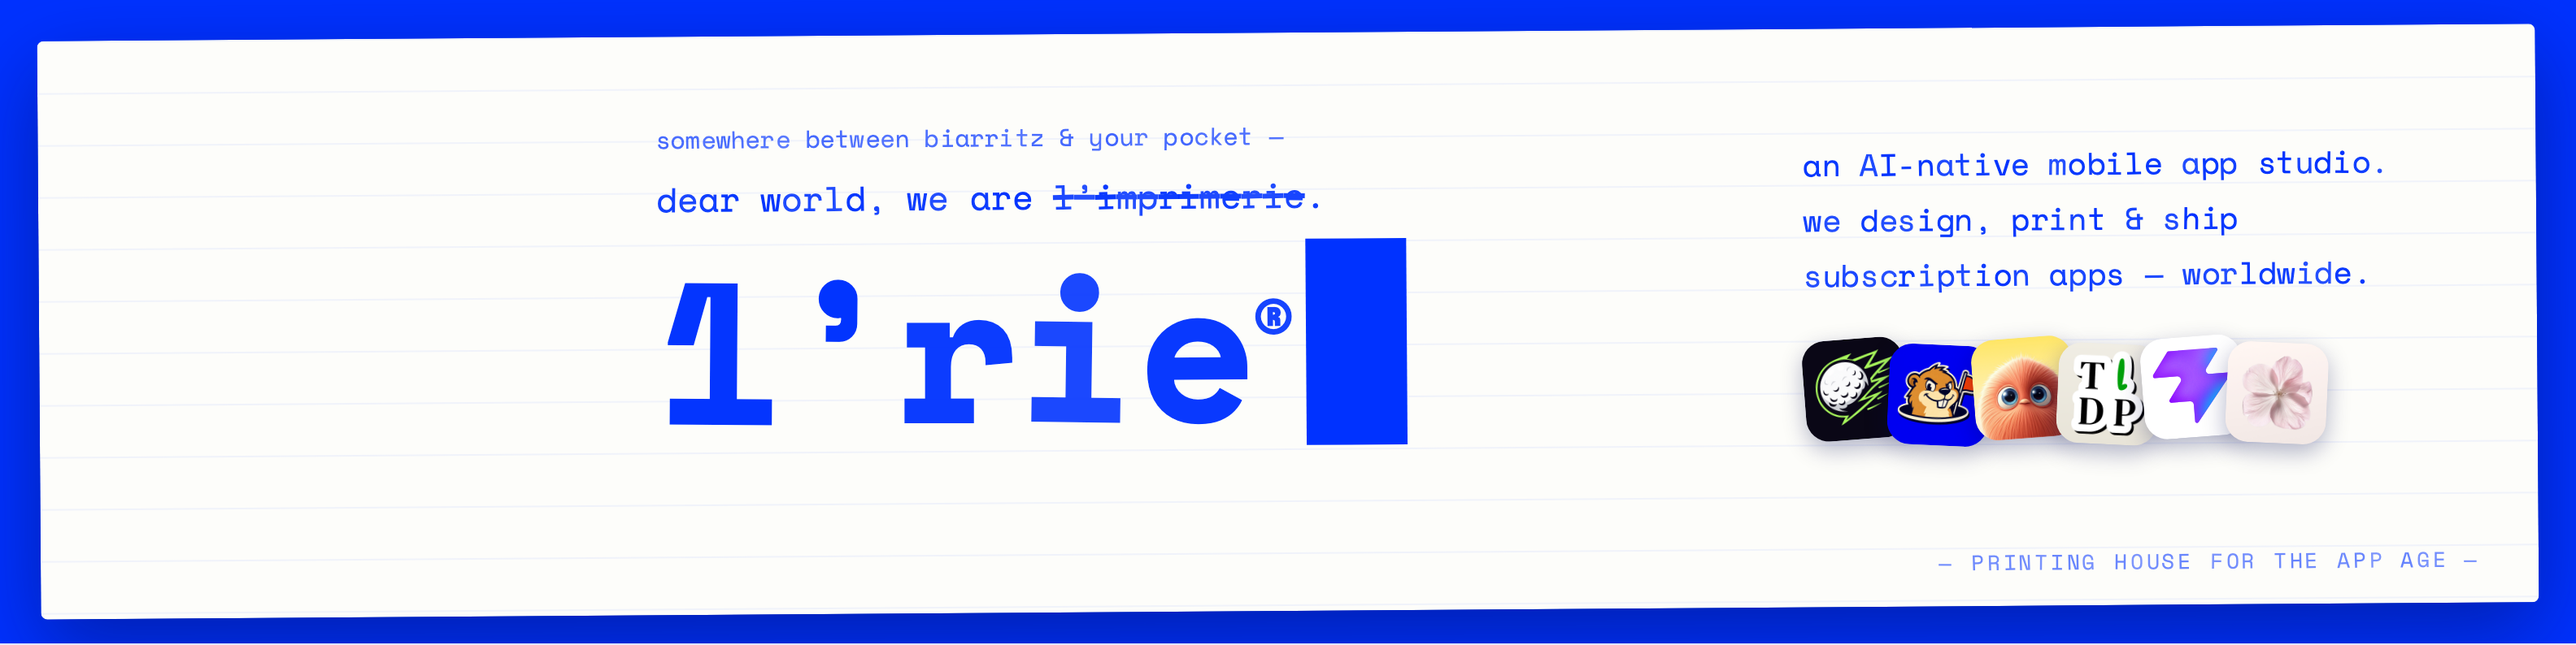
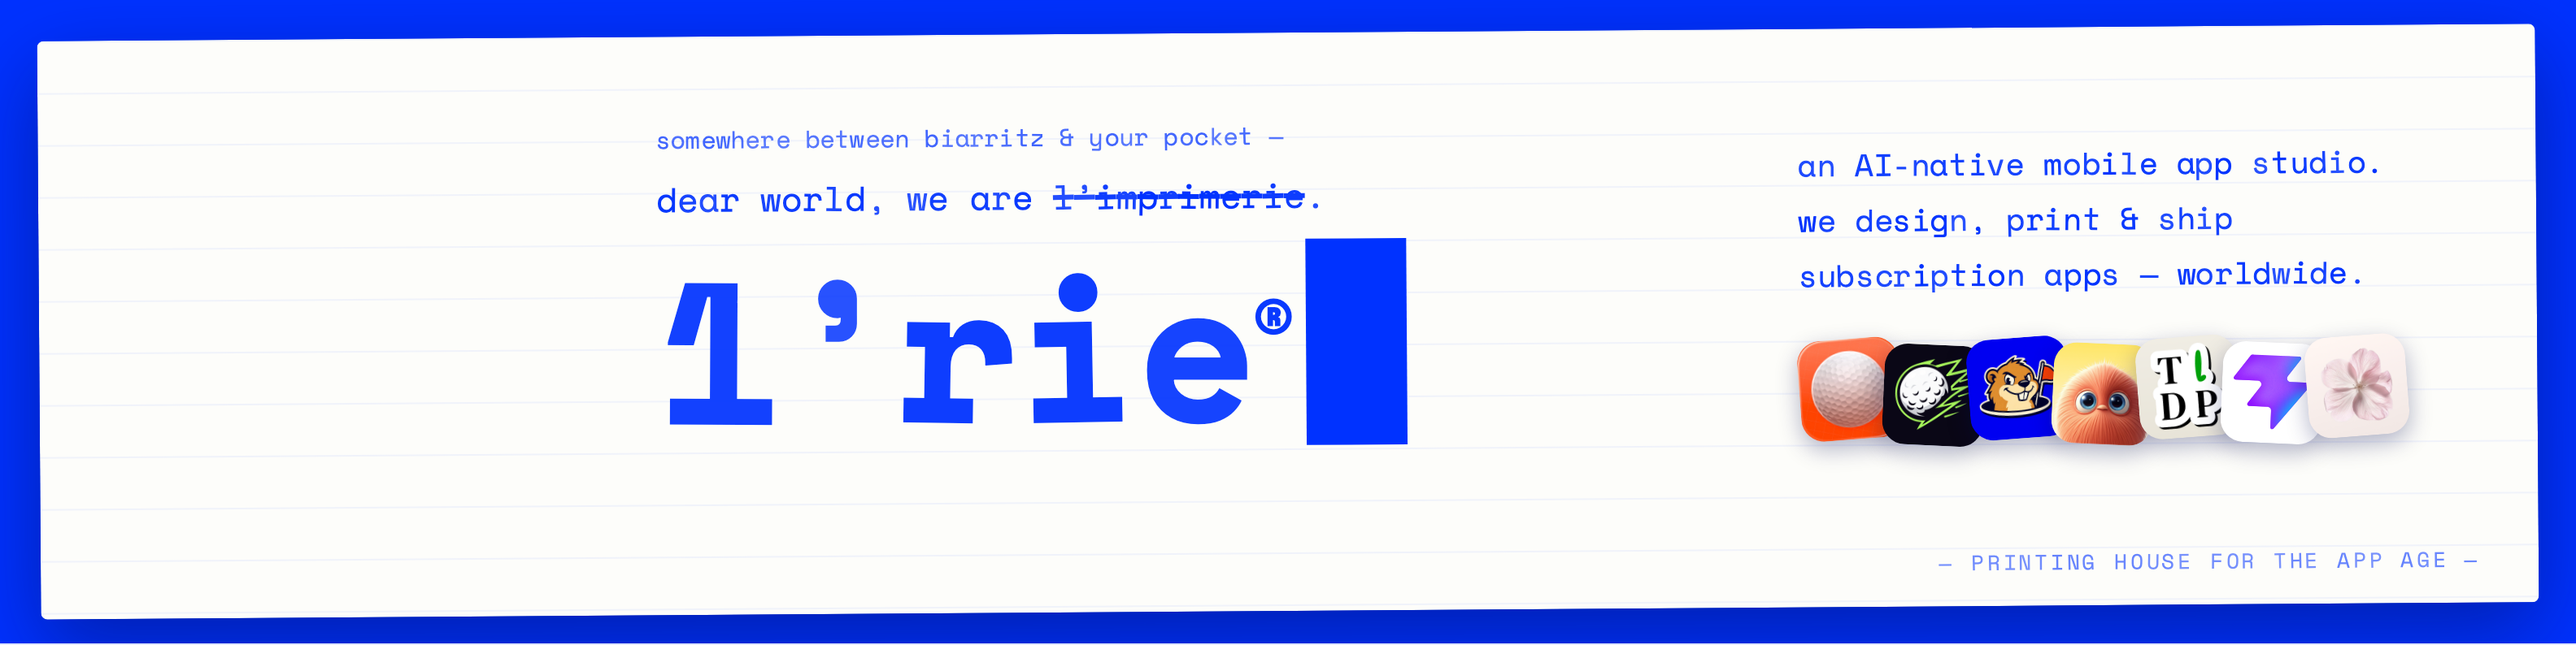
Add Teech Golf (live on the App Store) as portfolio app 01
Icon from the App Store artwork, GPS-target phone mock, App Store
link on the name; v2 letter line + banner stamp; others renumbered.

diff --git a/v2/index.html b/v2/index.html
@@ -36,12 +36,13 @@
       <p class="t">an AI-native mobile app studio. we design, print &amp; ship subscription apps — for everyone, everywhere.</p>
       <p class="t">most studios make one app. we run the presses.</p>
       <p class="t head">— what’s coming off the press —</p>
-      <p class="t app"><span class="idx">01</span> <img class="t-stamp" src="../assets/icon-pgt.png" alt="PGT app icon" width="48" height="48" /> <b>PGT</b> — a tour coach’s method, gamified.</p>
-      <p class="t app"><span class="idx">02</span> <img class="t-stamp" src="../assets/icon-sundaycup.png" alt="SundayCup app icon" width="48" height="48" /> <b>SundayCup</b> — ryder cups between friends.</p>
-      <p class="t app"><span class="idx">03</span> <img class="t-stamp" src="../assets/icon-unsweet.png" alt="Unsweet app icon" width="48" height="48" /> <b>Unsweet</b> — break up with sugar.</p>
-      <p class="t app"><span class="idx">04</span> <img class="t-stamp" src="../assets/icon-ldp.png" alt="Low Dopamine Path app icon" width="48" height="48" /> <b>Low Dopamine Path</b> — rewire your days, quest by quest.</p>
-      <p class="t app"><span class="idx">05</span> <img class="t-stamp t-stamp--glyph" src="../assets/icon-kithe.svg" alt="Kithe app icon" width="48" height="48" /> <b>Kithe</b> — family memories, printed weekly.</p>
-      <p class="t app"><span class="idx">06</span> <img class="t-stamp" src="../assets/icon-lutai.png" alt="LutAI app icon" width="48" height="48" /> <b>LutAI</b> — cycle-synced nutrition for active women.</p>
+      <p class="t app"><span class="idx">01</span> <img class="t-stamp" src="../assets/icon-teech.png" alt="Teech Golf app icon" width="48" height="48" /> <b><a href="https://apps.apple.com/fr/app/teech-golf-gps-performance/id6499589827" target="_blank" rel="noopener">Teech Golf</a></b> — gps &amp; performance, live on the app store.</p>
+      <p class="t app"><span class="idx">02</span> <img class="t-stamp" src="../assets/icon-pgt.png" alt="PGT app icon" width="48" height="48" /> <b>PGT</b> — a tour coach’s method, gamified.</p>
+      <p class="t app"><span class="idx">03</span> <img class="t-stamp" src="../assets/icon-sundaycup.png" alt="SundayCup app icon" width="48" height="48" /> <b>SundayCup</b> — ryder cups between friends.</p>
+      <p class="t app"><span class="idx">04</span> <img class="t-stamp" src="../assets/icon-unsweet.png" alt="Unsweet app icon" width="48" height="48" /> <b>Unsweet</b> — break up with sugar.</p>
+      <p class="t app"><span class="idx">05</span> <img class="t-stamp" src="../assets/icon-ldp.png" alt="Low Dopamine Path app icon" width="48" height="48" /> <b>Low Dopamine Path</b> — rewire your days, quest by quest.</p>
+      <p class="t app"><span class="idx">06</span> <img class="t-stamp t-stamp--glyph" src="../assets/icon-kithe.svg" alt="Kithe app icon" width="48" height="48" /> <b>Kithe</b> — family memories, printed weekly.</p>
+      <p class="t app"><span class="idx">07</span> <img class="t-stamp" src="../assets/icon-lutai.png" alt="LutAI app icon" width="48" height="48" /> <b>LutAI</b> — cycle-synced nutrition for active women.</p>
       <p class="t head">— p.s. —</p>
       <p class="t">we also print for others. your app, our presses: strategy, design, code, app store — end to end, at AI speed.</p>
       <!-- PLACEHOLDER EMAIL — same as v1 -->

diff --git a/index.html b/index.html
@@ -92,6 +92,24 @@
         <article class="panel">
           <span class="panel-index mono">01</span>
           <div class="phone" data-parallax>
+            <div class="phone-screen screen-teech">
+              <div class="teech-target"></div>
+              <div class="teech-line"></div>
+              <div class="teech-dot"></div>
+              <div class="ui-pill"></div>
+            </div>
+          </div>
+          <div class="panel-info">
+            <img class="panel-icon" src="assets/icon-teech.png" alt="" width="76" height="76" loading="lazy" />
+            <h3 class="panel-name"><a href="https://apps.apple.com/fr/app/teech-golf-gps-performance/id6499589827" target="_blank" rel="noopener" data-hover>Teech Golf</a></h3>
+            <p class="panel-tag">GPS &amp; performance — analyse your game, lower your score.</p>
+            <ul class="panel-chips mono"><li>iOS</li><li>Golf</li><li>On the App Store</li></ul>
+          </div>
+        </article>
+
+        <article class="panel">
+          <span class="panel-index mono">02</span>
+          <div class="phone" data-parallax>
             <div class="phone-screen screen-forme">
               <div class="forme-ring"></div>
               <div class="forme-bars"><i style="--h:40%"></i><i style="--h:70%"></i><i style="--h:55%"></i><i style="--h:90%"></i><i style="--h:65%"></i></div>
@@ -107,7 +125,7 @@
         </article>
 
         <article class="panel">
-          <span class="panel-index mono">02</span>
+          <span class="panel-index mono">03</span>
           <div class="phone" data-parallax>
             <div class="phone-screen screen-sunday">
               <div class="lb-row lead"><i class="lb-dot"></i><span class="lb-bar w70"></span></div>
@@ -126,7 +144,7 @@
         </article>
 
         <article class="panel">
-          <span class="panel-index mono">03</span>
+          <span class="panel-index mono">04</span>
           <div class="phone" data-parallax>
             <div class="phone-screen screen-aura">
               <div class="aura-orb"></div>
@@ -143,7 +161,7 @@
         </article>
 
         <article class="panel">
-          <span class="panel-index mono">04</span>
+          <span class="panel-index mono">05</span>
           <div class="phone" data-parallax>
             <div class="phone-screen screen-ldp">
               <div class="ldp-path">
@@ -164,7 +182,7 @@
         </article>
 
         <article class="panel">
-          <span class="panel-index mono">05</span>
+          <span class="panel-index mono">06</span>
           <div class="phone" data-parallax>
             <div class="phone-screen screen-kithe">
               <div class="kithe-masthead"></div>
@@ -185,7 +203,7 @@
         </article>
 
         <article class="panel">
-          <span class="panel-index mono">06</span>
+          <span class="panel-index mono">07</span>
           <div class="phone" data-parallax>
             <div class="phone-screen screen-lutai">
               <div class="lutai-ring"><i class="lutai-orbit"></i></div>

diff --git a/styles.css b/styles.css
@@ -325,6 +325,8 @@ a { color: inherit; text-decoration: none; }
   letter-spacing: -0.015em;
 }
 .panel-name--sm { font-size: clamp(2rem, 4.4vw, 4rem); }
+.panel-name a { text-decoration: none; }
+.panel-name a:hover { text-decoration: underline; text-decoration-thickness: 0.06em; }
 .panel-tag {
   margin-top: 0.8rem;
   font-size: clamp(1rem, 1.4vw, 1.25rem);
@@ -411,6 +413,33 @@ a { color: inherit; text-decoration: none; }
 @keyframes wave { 0%, 100% { transform: scaleY(0.6); } 50% { transform: scaleY(1.15); } }
 
 @keyframes blink { 0%, 60% { opacity: 1; } 61%, 100% { opacity: 0; } }
+
+/* teech golf — gps target + shot line */
+.screen-teech { justify-content: flex-start; padding-top: 20%; gap: 0; }
+.teech-target {
+  width: 38%; aspect-ratio: 1;
+  border-radius: 50%;
+  border: 2.5px solid var(--blue);
+  position: relative;
+}
+.teech-target::after {
+  content: "";
+  position: absolute;
+  inset: 30%;
+  border-radius: 50%;
+  border: 2.5px solid var(--blue);
+  opacity: 0.45;
+}
+.teech-line {
+  width: 0; height: 24%;
+  border-left: 2.5px dashed rgba(0, 50, 255, 0.45);
+}
+.teech-dot {
+  width: 15px; height: 15px;
+  border-radius: 50%;
+  background: var(--blue);
+  animation: pulse-step 1.4s ease-in-out infinite;
+}
 
 /* sundaycup — live leaderboard */
 .screen-sunday { align-items: stretch; padding: 26% 12% 0; justify-content: flex-start; gap: 7%; }

diff --git a/banner/linkedin-banner.html b/banner/linkedin-banner.html
@@ -147,6 +147,7 @@
       <div class="right">
         <p class="t tagline jitter">an AI-native mobile app studio.<br />we design, print &amp; ship<br />subscription apps — worldwide.</p>
         <div class="stamps">
+          <img src="../assets/icon-teech.png" alt="Teech Golf" />
           <img src="../assets/icon-pgt.png" alt="PGT" />
           <img src="../assets/icon-sundaycup.png" alt="SundayCup" />
           <img src="../assets/icon-unsweet.png" alt="Unsweet" />
